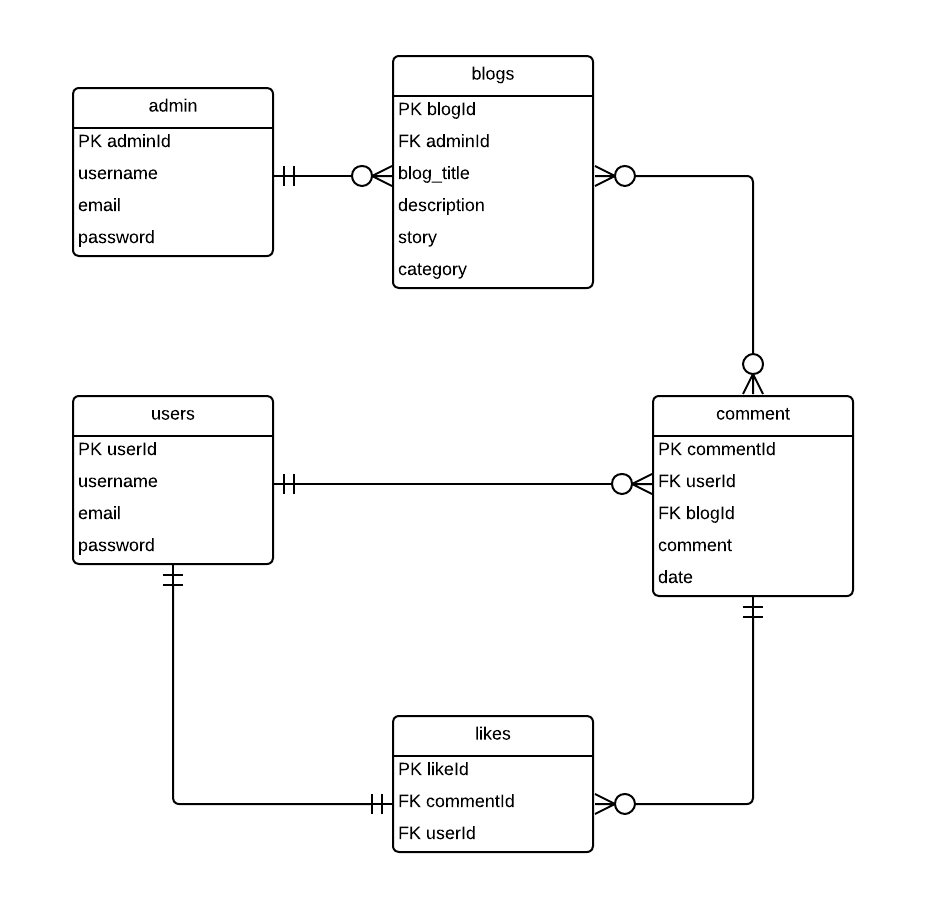
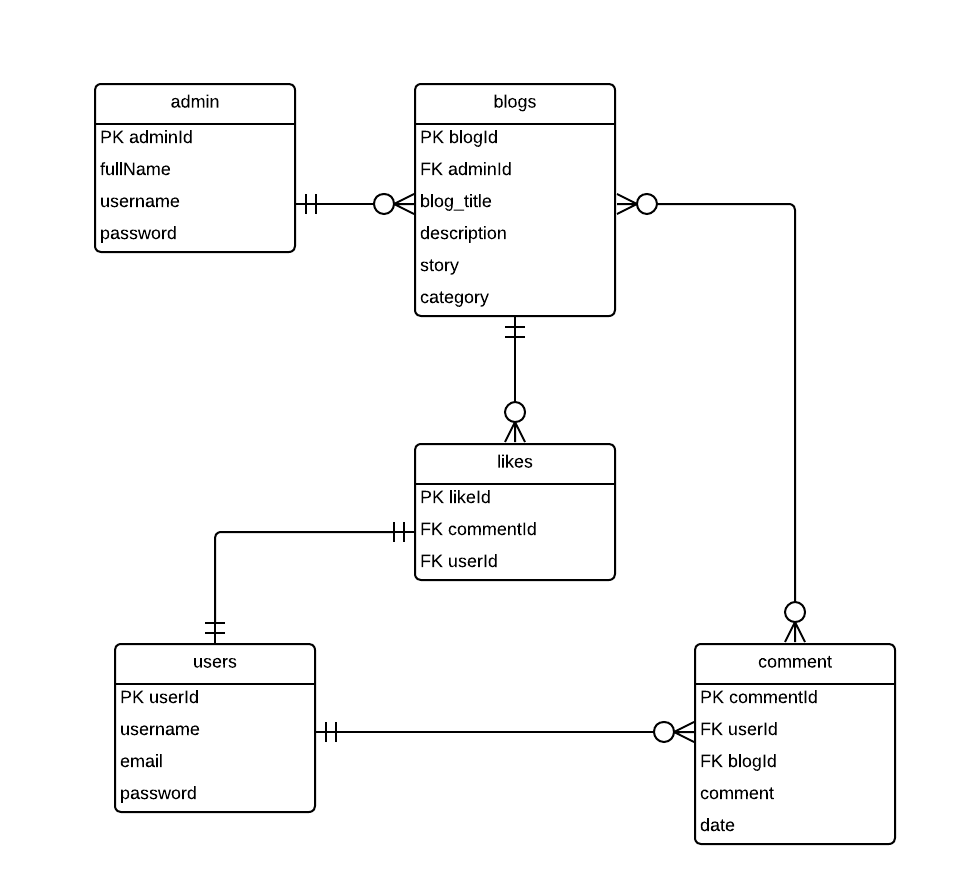
Update README.md

Changed region(s): [[0.0624, 0.0625, 0.9365, 0.9688], [0.9053, 0.7188, 0.9365, 0.9375]]

diff --git a/README.md b/README.md
@@ -44,6 +44,6 @@ The diagram illustrates the relationships between the main entities:
 - **Blogs**: Stores the details of each blog post, such as title, description, story, and category.
 - **Users**: Represents individuals interacting with the blog, such as reading, commenting, or liking posts.
 - **Comments**: Tracks user comments on blog posts.
-- **Likes**: Keeps a record of likes on comments by users.
+- **Likes**: Keeps a record of likes on blogs by users.
 
 Feel free to explore the finished blog here: [ejlindayao.ct.ws](https://ejlindayao.ct.ws)
